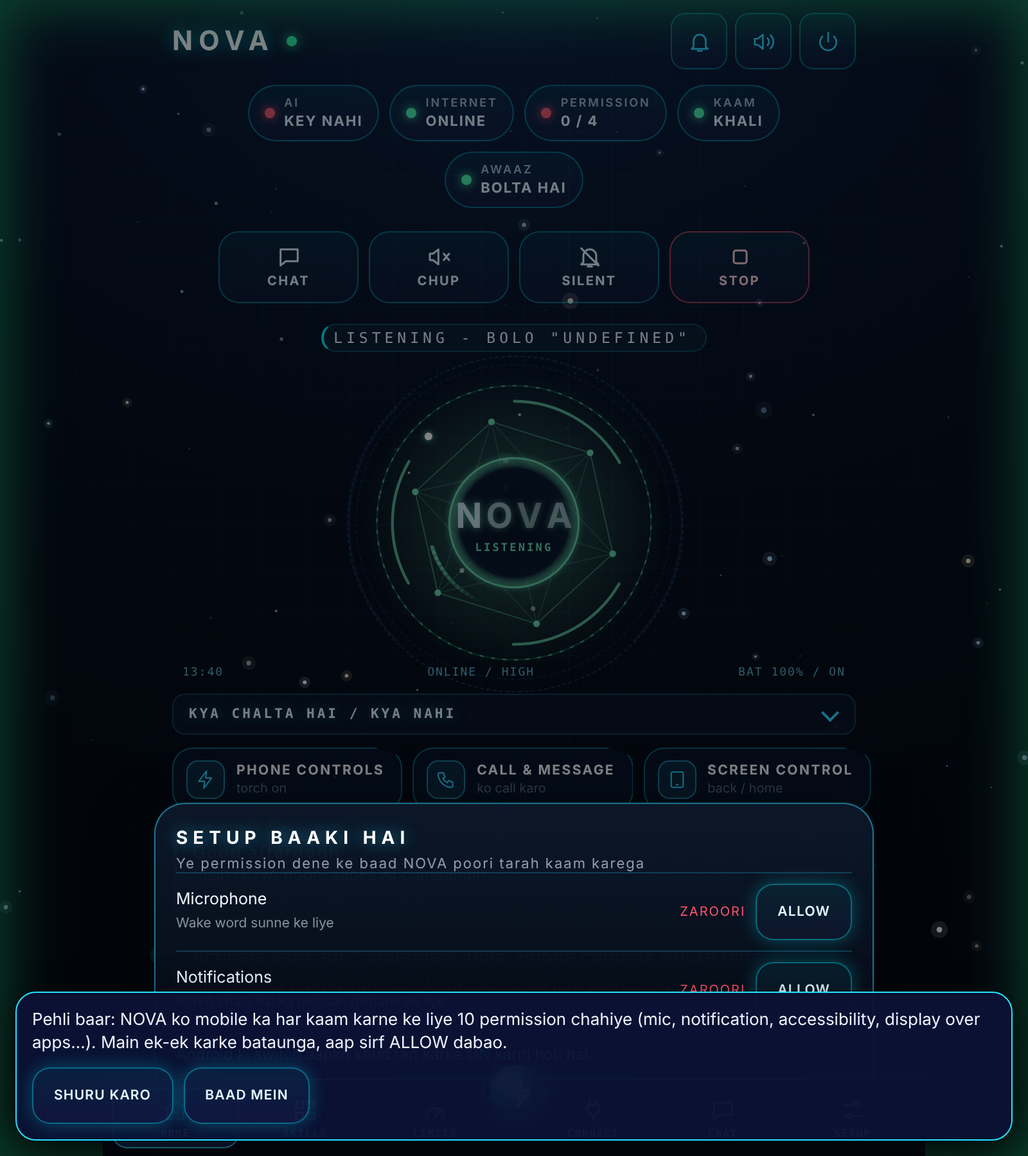
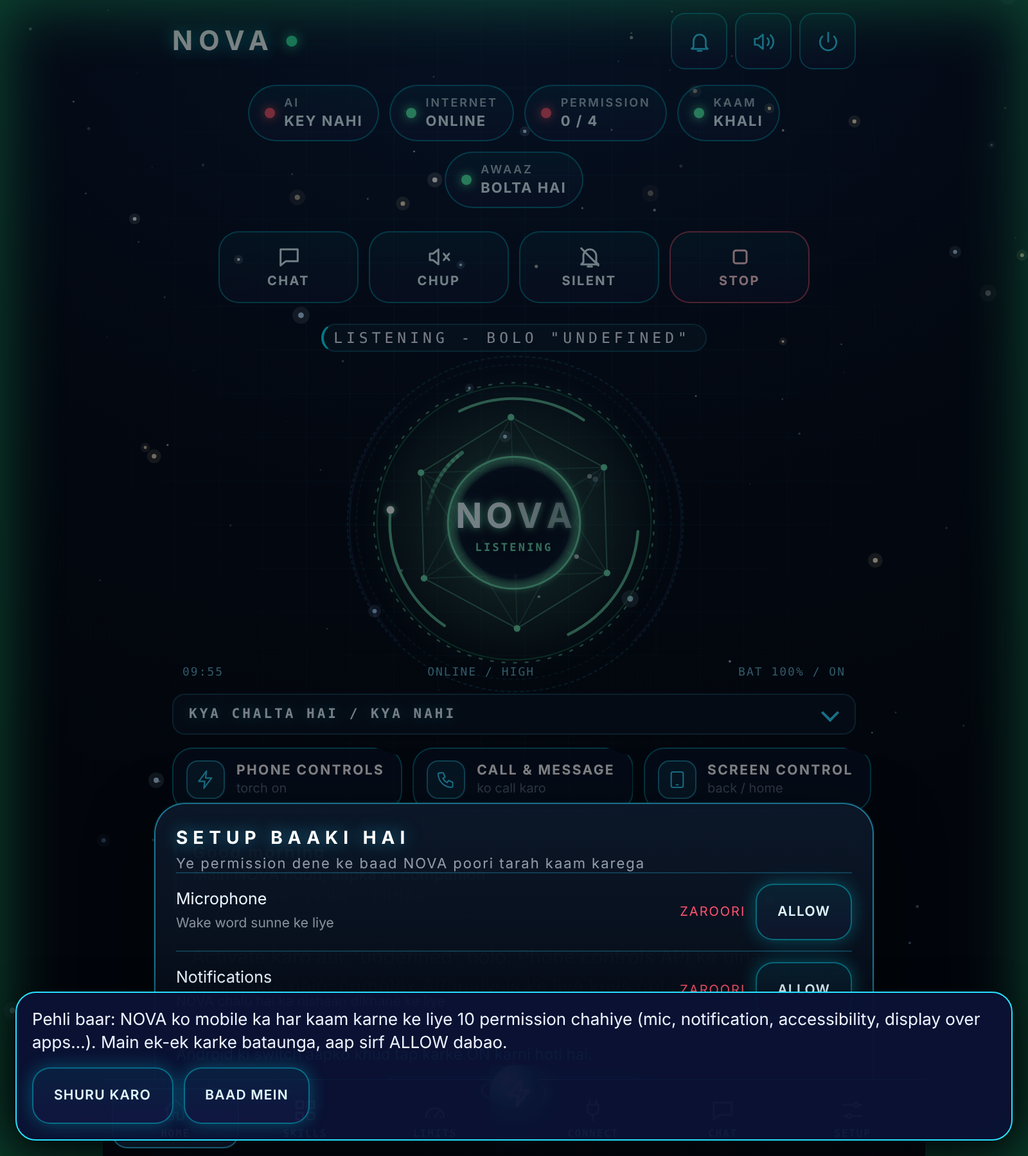
v7.113: SMOOTH default, no per-frame wakeups, horn false-wake guard

diff --git a/app/src/main/assets/ui.html b/app/src/main/assets/ui.html
@@ -6,14 +6,19 @@ if(t!=="low"&&t!=="mid"&&t!=="high"){var q=/[?&]tier=(low|mid|high)/.exec(locati
 window.__tier=t;try{document.documentElement.setAttribute("data-tier",t)}catch(e){}window.__dprCap=t==="high"?3:(t==="mid"?2:1.5);
 if(t==="low"){window.__forceLow=true;document.documentElement.classList.add("lowfx")}
 /* v7.4 Quality: Auto (default, tier based) / Sharp (more pixels, capped) / Smooth (light effects, fewer pixels, no hang) */
-try{var q=localStorage.getItem("nova_q")||"auto";window.__quality=q;if(q==="smooth"){window.__dprCap=2;window.__forceLow=true;document.documentElement.classList.add("lowfx");document.documentElement.classList.add("qsmooth")}else if(q==="sharp"&&t==="high"){window.__dprCap=Math.min(3,Math.max(window.__dprCap||2,2))}}catch(e){}})();</script>
+try{var q=localStorage.getItem("nova_q");if(!localStorage.getItem("nova_q_mig1")){localStorage.setItem("nova_q_mig1","1");if(!q||q==="auto"){q="smooth";localStorage.setItem("nova_q","smooth")}}q=q||"smooth";window.__quality=q;if(q==="smooth"){window.__dprCap=2;window.__forceLow=true;document.documentElement.classList.add("lowfx");document.documentElement.classList.add("qsmooth")}else if(q==="sharp"&&t==="high"){window.__dprCap=Math.min(3,Math.max(window.__dprCap||2,2))}}catch(e){}})();</script>
 <script id="qsmooth-init-v784">/* v7.84: SMOOTH = still theme. The live theme (3D orb, starfield, NOVA core, HUD rings) is drawn once per state change instead of 30 times a second, so the phone stays free for the real work. Helpers only: classes and one throttle gate. */
 (function(){var h=document.documentElement,W=window,G={};
 W.__isSmooth=function(){return h.classList.contains("qsmooth")};
 /* true = draw this frame. In SMOOTH a loop keyed k draws at most about 3 times a second (state colour still follows within 0.3 s). Other modes: always true. */
+var rAF=W.requestAnimationFrame.bind(W),cAF=W.cancelAnimationFrame.bind(W),NID=1e9,TM={};
+/* v7.113: in SMOOTH a looping animation re-arms with a timer (about 3 per second, 1 per 1.5 s while hidden) instead of requestAnimationFrame, so the page stops waking up 60 times a second. Other modes: plain requestAnimationFrame. */
+W.__qsRaf=function(f){if(!h.classList.contains("qsmooth"))return rAF(f);var id=++NID;TM[id]=setTimeout(function(){delete TM[id];f(performance.now())},document.hidden?1500:333);return id};
+W.cancelAnimationFrame=function(id){if(id>=1e9){clearTimeout(TM[id]);delete TM[id];return}return cAF(id)};
 W.__qsGate=function(k,now){if(!h.classList.contains("qsmooth"))return true;var l=G[k]||0;if(now-l<300)return false;G[k]=now;return true};
 })();</script>
-<script>/* v6.38: repeating UI timers pause while the page is hidden */(function(){var si=window.setInterval;window.setInterval=function(f,t){var a=[].slice.call(arguments,2);if(typeof f!=="function")return si(f,t);if(t>=2000&&window.__tier!=="high")t=Math.round(t*1.6);   /* v7.90: status polls (2-5 s) run 60% less often on LOW / MID phones */
+<script>/* v6.38: repeating UI timers pause while the page is hidden */(function(){var si=window.setInterval;window.setInterval=function(f,t){var a=[].slice.call(arguments,2);if(typeof f!=="function")return si(f,t);if(document.documentElement.classList.contains("qsmooth")){if(t<600)t=600;else if(t>=1000&&t<5000)t=Math.round(t*1.5)}   /* v7.113: SMOOTH = fewer wake-ups */
+if(t>=2000&&window.__tier!=="high")t=Math.round(t*1.6);   /* v7.90: status polls (2-5 s) run 60% less often on LOW / MID phones */
 return si(function(){if(document.hidden)return;f.apply(null,a)},t)}})();</script>
 <style>
 :root{--c1:#00f0ff;--c2:#2a6bff;--bg:#05060f}
@@ -343,6 +348,18 @@ html.lowfx #sk_l .vc{content-visibility:auto;contain-intrinsic-size:auto 130px}
 <small id="wb_lgs"></small>
 <label for="wb_city">MERA SHEHAR</label>
 <input id="wb_city" type="text" maxlength="80" placeholder="jaise Delhi (mausam ke liye)" autocomplete="off">
+<label for="wb_sosp">PAPA KA NUMBER (battery 5% par WhatsApp)</label>
+<input id="wb_sosp" type="tel" maxlength="16" placeholder="jaise 9876543210" autocomplete="off">
+<label for="wb_sosm">MUMMY KA NUMBER (battery 5% par WhatsApp)</label>
+<input id="wb_sosm" type="tel" maxlength="16" placeholder="jaise 9876543210" autocomplete="off">
+<small id="wb_soss">Yahan number daalo, to NOVA contact dhoondhne ki jagah seedha isi number par bhejega.</small>
+<script>(function(){
+var P=document.getElementById('wb_sosp'),M=document.getElementById('wb_sosm'),S=document.getElementById('wb_soss');
+function save(el,who){return function(){try{var r=Android.setSosNumber(who,el.value);el.value=r||'';if(S)S.textContent=r?(who==='papa'?'Papa':'Mummy')+' ka number save ho gaya.':'Number sahi nahi laga (7 se 15 ank). Dobara daalo.'}catch(e){}}}
+function load(){try{var a=Android.getSosNumber('papa'),b=Android.getSosNumber('mummy');if(P&&a&&document.activeElement!==P)P.value=a;if(M&&b&&document.activeElement!==M)M.value=b}catch(e){}}
+if(P)P.onchange=save(P,'papa');if(M)M.onchange=save(M,'mummy');
+load();setTimeout(load,1500);setTimeout(load,4000);
+})();</script>
 <label for="wb_wait">AAWAAZ KE BAAD KITNA RUKUN: <b id="wb_waitv"></b> sec</label>
 <input id="wb_wait" type="range" min="2" max="10" step="1" value="5">
 <small>Aap bolna band karte ho to NOVA itne second ruk kar sunta hai, phir command chalata hai. Kam = tez, zyada = lambi baat ke liye.</small>
@@ -390,7 +407,7 @@ html.lowfx #sk_l .vc{content-visibility:auto;contain-intrinsic-size:auto 130px}
 
 <label class="chk" style="display:none"><input type="checkbox" id="s_boot"> Phone restart ke baad NOVA wapas chalu karne ka notification do</label>
 <label class="chk"><input type="checkbox" id="s_screen"> SCREEN MONITORING (sirf local, default OFF; Accessibility permission chahiye): screen par error/warning aane par NOVA bol dega</label>
-<label class="chk" style="display:block">GRAPHICS QUALITY <select id="s_quality"><option value="auto">AUTO (phone ke hisab se)</option><option value="sharp">SHARP (zyada saaf)</option><option value="smooth">SMOOTH (bina atke, halke effects)</option></select></label>
+<label class="chk" style="display:block">GRAPHICS QUALITY <select id="s_quality"><option value="auto">AUTO (phone ke hisab se)</option><option value="sharp">SHARP (zyada saaf)</option><option value="smooth">SMOOTH (bina atke, halke effects) - default</option></select></label>
 <small id="s_qnote">Quality badalne ke baad NOVA app band karke dobara kholo. AUTO phone ke hisab se khud chunta hai; atak raha ho to SMOOTH chuno.</small>
 <small>Monitoring phone ke andar hi chalti hai (Accessibility text, koi image nahi) aur kuch bhi cloud par nahi bhejti. Iske liye Accessibility ON honi chahiye. Screen ka analysis alag hai: sirf jab aap bolo "analyze screen"; key hone par hi password-free screen text AI ko jaata hai.</small>
 
@@ -1394,7 +1411,7 @@ function frame(now){
   ctx.globalAlpha=1;
 }
 var raf=0;
-function loop(now){if(window.__orb3d!==true&&!window.__cover&&(!window.__qsGate||window.__qsGate('orb2d',now)))frame(now);raf=requestAnimationFrame(loop)}   /* v6.18b: the old 2D orb is hidden while the 3D orb runs, so do not redraw it (saves one shadowBlur canvas per frame) */
+function loop(now){if(window.__orb3d!==true&&!window.__cover&&(!window.__qsGate||window.__qsGate('orb2d',now)))frame(now);raf=__qsRaf(loop)}   /* v6.18b: the old 2D orb is hidden while the 3D orb runs, so do not redraw it (saves one shadowBlur canvas per frame) */
 function start(){if(!raf)raf=requestAnimationFrame(loop)}
 function stop(){if(raf){cancelAnimationFrame(raf);raf=0}}
 document.addEventListener('visibilitychange',function(){document.hidden?stop():start()});
@@ -1648,7 +1665,7 @@ function gframe(now){var cls=$('app').className||'',on=/on|listen|think/.test(cl
  if(ls)for(var r2=0;r2<3;r2++){var ph2=((now/900)+r2/3)%1;g.strokeStyle='rgba('+col+','+(1-ph2)*.5+')';g.lineWidth=1.5;g.beginPath();g.arc(0,0,R+8+ph2*42,0,6.2832);g.stroke()}
  if(th){g.save();g.beginPath();g.arc(0,0,R,0,6.2832);g.clip();g.fillStyle='rgba('+col+',.55)';g.fillRect(-R,-R+((now/5)%(2*R)),2*R,2);g.restore()}
  for(var k=0;k<28;k++){var h=ls?6+24*Math.abs(Math.sin(now/130+k*.6)*Math.sin(now/310+k*.25)):on?2+3*Math.pow(Math.sin(now/500+k*.4),2):1.5;g.fillStyle='rgba('+col+','+(.35+.55*al)+')';g.fillRect(-111+k*8,106-h/2,3,h)}}
-var _lg=0;function gloop(n){requestAnimationFrame(gloop);if(n-_lg<33)return;if(window.__qsGate&&!window.__qsGate('gl2d',n))return;_lg=n;if(!window.__orb3d&&!window.__cover&&B.classList.contains('ready')&&!document.hidden)gframe(n)}requestAnimationFrame(gloop);
+var _lg=0;function gloop(n){__qsRaf(gloop);if(n-_lg<33)return;if(window.__qsGate&&!window.__qsGate('gl2d',n))return;_lg=n;if(!window.__orb3d&&!window.__cover&&B.classList.contains('ready')&&!document.hidden)gframe(n)}requestAnimationFrame(gloop);
 gl.onclick=function(){$('btn').click()};
 var greeted=false;
 function greetOnce(){if(greeted)return;greeted=true;var h=new Date().getHours(),w=h<12?'Good morning':h<17?'Good afternoon':h<21?'Good evening':'Good night',d=document.createElement('div');d.className='greet';d.innerHTML='<b>'+w+'</b><span></span><i>Ready for your command</i>';var lg=$('log');lg.insertBefore(d,lg.firstChild);var tx='Main NOVA hoon, aapka AI companion',k=0,sp=d.querySelector('span');(function ty(){sp.textContent=tx.slice(0,k++);if(k<=tx.length)setTimeout(ty,40)})()}
@@ -1814,7 +1831,7 @@ window.novaBack=function(){if(hl.classList.contains('on')){closeHist();return 'h
 setTimeout(function(){try{var i=g('intro');if(i&&i.classList.contains('on')){i.classList.remove('on');i.style.opacity=''}document.body.classList.add('ready')}catch(e){}},9000);
 })();
 /* v7.4 quality select */
-(function(){var s=document.getElementById('s_quality');if(!s)return;try{s.value=localStorage.getItem('nova_q')||'auto'}catch(e){}
+(function(){var s=document.getElementById('s_quality');if(!s)return;try{s.value=localStorage.getItem('nova_q')||'smooth'}catch(e){}
 s.addEventListener('change',function(){try{localStorage.setItem('nova_q',s.value)}catch(e){}var n=document.getElementById('s_qnote');if(n)n.textContent='Quality '+s.value.toUpperCase()+' save ho gayi. NOVA app band karke dobara kholo.'})})();
 </script><script id="smooth-fx">
 (function(){
@@ -1828,7 +1845,7 @@ try{if(!LOW){LOW=true;document.documentElement.classList.add('lowfx')}}catch(e){
   if(d&&d.set&&d.get)Object.defineProperty(c,'shadowBlur',{configurable:true,get:function(){return d.get.call(c)},set:function(v){d.set.call(c,LOW?0:v)}});
 }catch(e){}});
 var last=0,ema=16.7,bad=0,good=0,H=document.documentElement;
-function tick(t){requestAnimationFrame(tick);
+function tick(t){__qsRaf(tick);
   if(document.hidden){last=0;return}
   if(last){var dt=t-last;if(dt<250)ema=ema*.92+dt*.08}
   last=t;
@@ -2786,7 +2803,7 @@ function draw(now){
   if(!first){first=true;cv.style.background='none'}
 }
 function loop(now){
-  requestAnimationFrame(loop);
+  __qsRaf(loop);
   if(lost||document.hidden||window.__cover||!document.body.classList.contains('ready')){last=0;return}   /* v6.50: nothing is drawn while a full-screen panel covers the orb */
   if(window.__orb3d!==true){window.__orb3d=true;old.style.display='none';cv.style.display=''}
   var cls=app.className||'';
@@ -3800,7 +3817,7 @@ if(!low&&bg.getContext){
   function size(){W=bg.width=Math.max(1,Math.floor(innerWidth/2));H=bg.height=Math.max(1,Math.floor(innerHeight/2))}
   size();addEventListener('resize',size);
   for(var i=0;i<N;i++)P.push({x:Math.random()*W,y:Math.random()*H,vx:(Math.random()-.5)*.4,vy:(Math.random()-.5)*.4});
-  (function loop(t){requestAnimationFrame(loop);if(d.hidden||h.classList.contains('lowfx')||t-last<33)return;last=t;
+  (function loop(t){__qsRaf(loop);if(d.hidden||h.classList.contains('lowfx')||t-last<33)return;last=t;
     cx.clearRect(0,0,W,H);cx.fillStyle='rgba(120,225,255,.8)';cx.strokeStyle='rgba(60,170,255,.22)';
     for(var i=0;i<N;i++){var p=P[i];p.x+=p.vx;p.y+=p.vy;if(p.x<0||p.x>W)p.vx=-p.vx;if(p.y<0||p.y>H)p.vy=-p.vy;
       cx.fillRect(p.x,p.y,2,2);
@@ -4137,7 +4154,7 @@ try{[c,sc].forEach(function(z){z.addEventListener('contextlost',function(e){try{
 window.addEventListener('resize',function(){if(Math.abs(window.innerWidth-SW)>40||Math.abs(window.innerHeight-SH)>160)build()});window.addEventListener('orientationchange',function(){setTimeout(build,250)});
 build();nextShoot=performance.now()+3000;
 var last=0;
-function loop(now){requestAnimationFrame(loop);
+function loop(now){__qsRaf(loop);
   if(d.hidden||window.__cover||!d.body.classList.contains('ready')){last=0;return}
   var lo=low();
   RM=RM0||(window.__isSmooth&&window.__isSmooth());
@@ -4211,12 +4228,12 @@ function step(dt,t){
   }else good=0
 }
 function tick(t){
-  raf=0;if(d.hidden||halted)return;
+  raf=0;if(d.hidden||halted||(W.__isSmooth&&W.__isSmooth()))return;   /* v7.113: SMOOTH is a still theme, nothing to measure */
   raf=requestAnimationFrame(tick);
   if(last)step(t-last,t);
   last=t
 }
-function begin(){if(raf||halted||d.hidden)return;last=0;ema=16.7;bad=0;good=0;quiet=(W.performance?performance.now():0)+3000;raf=requestAnimationFrame(tick)}
+function begin(){if(raf||halted||d.hidden||(W.__isSmooth&&W.__isSmooth()))return;last=0;ema=16.7;bad=0;good=0;quiet=(W.performance?performance.now():0)+3000;raf=requestAnimationFrame(tick)}
 function stop(){if(raf){cancelAnimationFrame(raf);raf=0}last=0}
 d.addEventListener("visibilitychange",function(){if(d.hidden)stop();else begin()});   /* nothing is measured, and nothing is requested, while the page is hidden */
 try{if(W.PerformanceObserver){var po=new PerformanceObserver(function(l){var es=l.getEntries();var t=W.performance?performance.now():0;
@@ -4254,7 +4271,7 @@ html.qsmooth *{scroll-behavior:auto!important}
 /* v7.84: GRAPHICS QUALITY applies at once. Choosing SMOOTH stops the live theme immediately (no app restart). Leaving SMOOTH removes the still mode right away; only the 3D orb pixel size and the effects level climb back after the next app start. Uses the same store as before (localStorage nova_q). */
 (function(){
 var d=document,h=d.documentElement,W=window;
-function q(){var v="auto";try{v=localStorage.getItem("nova_q")||"auto"}catch(e){}return v}
+function q(){var v="smooth";try{v=localStorage.getItem("nova_q")||"smooth"}catch(e){}return v}
 function note(t){var a=d.getElementById("s_qnote"),b=d.getElementById("p17_qn");setTimeout(function(){if(a)a.textContent=t;if(b)b.textContent=t},40)}
 function apply(v){
   W.__quality=v;
@@ -4421,7 +4438,7 @@ window.addEventListener('error',function(e){try{L('js_error',(e&&e.message?e.mes
    every JS function Kotlin calls exists, the key elements and the new scripts exist, and answers with Android.verifyPage(json). Read-only: it clicks nothing and reads no typed text. */
 (function(){try{
 var d=document;
-var BRIDGE=["getBrainChoice", "startBrainInstall", "cancelBrainInstall", "getLearnedSummary", "clearJobLearning", "actionUnseen", "addSchedule", "analysisCancel", "analysisResultText", "analysisStart", "analysisStatus", "answerAsk", "applySelfImprove", "brainClear", "brainEngineReady", "brainStats", "cancelSchedule", "chatPhotoAsk", "checkUpdates", "clearActionLog", "clearErrors", "clearGithubToken", "clearGroqKey", "clearImgKey", "clearKey", "clearLearned", "clearMemory", "clearOpenRouterKey", "clearPhoto", "clearPorcupine", "clearSiteMedia", "clearZaiKey", "clearZaiKeyN", "connectorBegin", "connectorClientId", "connectorClip", "connectorDeviceCancel", "connectorDeviceLogin", "connectorDisconnect", "connectorPaste", "connectorRun", "connectorSetClientId", "connectorSetPerm", "connectorTest", "connectorUseClip", "contextInfo", "copyText", "currentChat", "deleteAllChats", "deleteChat", "deleteLearned", "deleteRoutine", "deleteSent", "detectIntent", "editPhoto", "editReport", "editedToSite", "exportChat", "frameExtractCancel", "frameExtractStart", "frameExtractStatus", "frameExtractThumb", "getActionLog", "getAiOrder", "getAlerts", "getAutoDeleteDays", "getAutoLearn", "getAutoModels", "getAutoReply", "getBrowserStatus", "getChatAi", "getChatSpeak", "getConnectors", "getConvo", "getErrors", "getFeatureStatus", "getFreeChain", "getFreeImg", "getFreeKeyless", "getHomeCity", "getLearned", "getLocalFirst", "getLockGuard", "getMemoryCount", "getMemoryInChain", "getMemoryJson", "getMemoryText", "getNoiseCancel", "getOwnerName", "getPersona", "getSafeMode", "getStopPowersOff", "getSchedules", "getSelfImprove", "getSelfImproveCfg", "getSettings", "getSilentMode", "getSmartReply", "getStatus", "getTier", "getUpdates", "getWaitSec", "getWebBrowsers", "hasGithubToken", "hasGroqKey", "hasImgKey", "hasOpenRouterKey", "hasZaiKey", "hasZaiKeyN", "installUpdate", "keepLearned", "listChats", "lockGuardStatus", "makeImage", "markActionsSeen", "mediaIntakeAttach", "mediaIntakeCancel", "mediaIntakeClear", "mediaIntakeList", "mediaIntakeOpen", "mediaIntakeRemove", "mediaIntakeThumb", "mediaPick", "memoryAdd", "memoryDelete", "memoryEdit", "memoryExport", "memoryImport", "newChat", "noiseCancelStatus", "offerOfflineBrain", "openAccessibility", "openAppInfo", "openAssistantSettings", "openBatterySettings", "openChat", "openDndAccess", "openInstallSettings", "openNotificationAccess", "openOverlaySettings", "openPowerGuide", "openPublished", "openTtsSettings", "openWriteSettings", "pendingAsk", "photoToSite", "pickPhoto", "pickPorcupineModel", "pickSiteMedia", "pinChat", "porcupineStatus", "publishLastSite", "recStart", "recStatus", "recStop", "rejectSelfImprove", "renameChat", "requestBasics", "requestContacts", "rerunSetup", "resetApiUsage", "revertSelfImprove", "rollbackUpdate", "runSelfImprove", "running", "saveGithubToken", "saveGroqKey", "saveImgKey", "saveKeys", "saveOpenRouterKey", "savePorcupineKey", "saveRoutine", "saveSettings", "saveZaiKey", "saveZaiKeyN", "searchChats", "selfTest", "selfTestFree", "selfTestImage", "sendText", "setAlerts", "setApiLimit", "setAutoDeleteDays", "setAutoLearn", "setAutoModels", "setAutoReply", "setChatAi", "setChatSpeak", "setConvo", "setFeedUrl", "setFreeChain", "setFreeImg", "setFreeKeyless", "setHomeCity", "setLocalFirst", "setLockGuard", "setMemoryInChain", "setNoiseCancel", "setOwnerName", "setPersona", "exitSafeMode", "setStopPowersOff", "setSchedulePrio", "setSelfImproveCfg", "setSilentMode", "setSmartReply", "setWaitSec", "setWebBrowsers", "shareText", "siteMediaCount", "skipUpdate", "speakMsg", "stopSpeak", "systemVoice", "teachAdd", "teachDelete", "testBrowser", "testVoice", "toggle", "uiLog", "verifyNow", "verifyPage", "vibrate", "videoStart", "wakeNow", "tradeAnalyse", "tradeCard", "tradeOpenMt5", "tradePractice", "tradeResetPractice", "tradeSendDemo", "tradeSendReal", "tradeSetBalance", "tradeSetRisk", "tradeSetSymbols", "tradeSettle", "tradeSetFilters"];
+var BRIDGE=["getSosNumber", "setSosNumber", "getBrainChoice", "startBrainInstall", "cancelBrainInstall", "getLearnedSummary", "clearJobLearning", "actionUnseen", "addSchedule", "analysisCancel", "analysisResultText", "analysisStart", "analysisStatus", "answerAsk", "applySelfImprove", "brainClear", "brainEngineReady", "brainStats", "cancelSchedule", "chatPhotoAsk", "checkUpdates", "clearActionLog", "clearErrors", "clearGithubToken", "clearGroqKey", "clearImgKey", "clearKey", "clearLearned", "clearMemory", "clearOpenRouterKey", "clearPhoto", "clearPorcupine", "clearSiteMedia", "clearZaiKey", "clearZaiKeyN", "connectorBegin", "connectorClientId", "connectorClip", "connectorDeviceCancel", "connectorDeviceLogin", "connectorDisconnect", "connectorPaste", "connectorRun", "connectorSetClientId", "connectorSetPerm", "connectorTest", "connectorUseClip", "contextInfo", "copyText", "currentChat", "deleteAllChats", "deleteChat", "deleteLearned", "deleteRoutine", "deleteSent", "detectIntent", "editPhoto", "editReport", "editedToSite", "exportChat", "frameExtractCancel", "frameExtractStart", "frameExtractStatus", "frameExtractThumb", "getActionLog", "getAiOrder", "getAlerts", "getAutoDeleteDays", "getAutoLearn", "getAutoModels", "getAutoReply", "getBrowserStatus", "getChatAi", "getChatSpeak", "getConnectors", "getConvo", "getErrors", "getFeatureStatus", "getFreeChain", "getFreeImg", "getFreeKeyless", "getHomeCity", "getLearned", "getLocalFirst", "getLockGuard", "getMemoryCount", "getMemoryInChain", "getMemoryJson", "getMemoryText", "getNoiseCancel", "getOwnerName", "getPersona", "getSafeMode", "getStopPowersOff", "getSchedules", "getSelfImprove", "getSelfImproveCfg", "getSettings", "getSilentMode", "getSmartReply", "getStatus", "getTier", "getUpdates", "getWaitSec", "getWebBrowsers", "hasGithubToken", "hasGroqKey", "hasImgKey", "hasOpenRouterKey", "hasZaiKey", "hasZaiKeyN", "installUpdate", "keepLearned", "listChats", "lockGuardStatus", "makeImage", "markActionsSeen", "mediaIntakeAttach", "mediaIntakeCancel", "mediaIntakeClear", "mediaIntakeList", "mediaIntakeOpen", "mediaIntakeRemove", "mediaIntakeThumb", "mediaPick", "memoryAdd", "memoryDelete", "memoryEdit", "memoryExport", "memoryImport", "newChat", "noiseCancelStatus", "offerOfflineBrain", "openAccessibility", "openAppInfo", "openAssistantSettings", "openBatterySettings", "openChat", "openDndAccess", "openInstallSettings", "openNotificationAccess", "openOverlaySettings", "openPowerGuide", "openPublished", "openTtsSettings", "openWriteSettings", "pendingAsk", "photoToSite", "pickPhoto", "pickPorcupineModel", "pickSiteMedia", "pinChat", "porcupineStatus", "publishLastSite", "recStart", "recStatus", "recStop", "rejectSelfImprove", "renameChat", "requestBasics", "requestContacts", "rerunSetup", "resetApiUsage", "revertSelfImprove", "rollbackUpdate", "runSelfImprove", "running", "saveGithubToken", "saveGroqKey", "saveImgKey", "saveKeys", "saveOpenRouterKey", "savePorcupineKey", "saveRoutine", "saveSettings", "saveZaiKey", "saveZaiKeyN", "searchChats", "selfTest", "selfTestFree", "selfTestImage", "sendText", "setAlerts", "setApiLimit", "setAutoDeleteDays", "setAutoLearn", "setAutoModels", "setAutoReply", "setChatAi", "setChatSpeak", "setConvo", "setFeedUrl", "setFreeChain", "setFreeImg", "setFreeKeyless", "setHomeCity", "setLocalFirst", "setLockGuard", "setMemoryInChain", "setNoiseCancel", "setOwnerName", "setPersona", "exitSafeMode", "setStopPowersOff", "setSchedulePrio", "setSelfImproveCfg", "setSilentMode", "setSmartReply", "setWaitSec", "setWebBrowsers", "shareText", "siteMediaCount", "skipUpdate", "speakMsg", "stopSpeak", "systemVoice", "teachAdd", "teachDelete", "testBrowser", "testVoice", "toggle", "uiLog", "verifyNow", "verifyPage", "vibrate", "videoStart", "wakeNow", "tradeAnalyse", "tradeCard", "tradeOpenMt5", "tradePractice", "tradeResetPractice", "tradeSendDemo", "tradeSendReal", "tradeSetBalance", "tradeSetRisk", "tradeSetSymbols", "tradeSettle", "tradeSetFilters"];
 var CB=["onAsk", "onAutoTest", "onChatExport", "onConn", "onConnRun", "onFeatureVerify", "onFlow", "onImage", "onImgCancel", "onLearn", "onMediaIntake", "onMemBackup", "onNova", "onPhoto", "onPhotoEdited", "onPhotoErr", "onPorcupineFile", "onPublish", "onRecordingsChanged", "onSelfImprove", "onSelfTest", "onSelfTestDone", "onSite", "onSiteMedia", "onSystemVoice", "onTeachBackup", "onChatPhotoGo", "onChatPhotoNo", "onTradeAnalysis", "onTradeSent", "onTradeSettled"];
 var IDS=['clog','c_in','c_send','c_thw','c_thumb','c_auto','p4_core','p4_stars','btn','autoT','c_imode','chatb','st','p6_board','p6_dock'];
 var SCR=['p1_auto','p2_auto','p3_fx','p4_fx','p5_log','p6_verify','p6_home','p7_motion','pt8_chat','pt9_persona','pt10_wire','pt11_media','pt12_frames','pt13_analyse','pt13d_chat','pt14_laser','pt17_switches','pt7_brain_learned','pt18_safe'];
@@ -4821,7 +4838,7 @@ function $(id){return d.getElementById(id)}
 function mark(box,val){var bs=box.querySelectorAll('button');for(var i=0;i<bs.length;i++)bs[i].setAttribute('aria-pressed',String(bs[i].getAttribute('data-v')===String(val)))}
 function wire(box,fn){box.addEventListener('click',function(e){var t=e.target;if(!t||t.tagName!=='BUTTON')return;fn(t.getAttribute('data-v'))})}
 /* QUALITY */
-function getQ(){var q='auto';try{q=localStorage.getItem('nova_q')||'auto'}catch(e){}return q}
+function getQ(){var q='smooth';try{q=localStorage.getItem('nova_q')||'smooth'}catch(e){}return q}
 function paintQ(){var q=getQ();mark($('p17_q'),q);var o=$('s_quality');if(o)o.value=q;
  $('p17_qn').textContent=q==='sharp'?'SHARP: zyada saaf, thoda bhaari.':q==='smooth'?'SMOOTH: halke effects, bina atke (atak raha ho to ye chuno).':'AUTO: phone ke hisab se khud chunta hai.'}
 wire($('p17_q'),function(v){try{localStorage.setItem('nova_q',v)}catch(e){}paintQ();$('p17_qn').textContent+=' Naya quality NOVA app band karke dobara kholne par lagega.'});
@@ -5387,7 +5404,7 @@ function size(){W=cv.width=Math.max(1,Math.floor(root.clientWidth/2));H=cv.heigh
 function rain(t){raf=null;if(!on||low()||!ctx)return;
   if(t-lastPaint>60){lastPaint=t;ctx.fillStyle='rgba(0,10,4,.18)';ctx.fillRect(0,0,W,H);ctx.fillStyle='#5dff9a';ctx.font='10px monospace';
     for(var i=0;i<cols.length;i++){ctx.fillText(CH.charAt((Math.random()*CH.length)|0),i*10,cols[i]);cols[i]=cols[i]>H&&Math.random()>.96?0:cols[i]+10}}
-  raf=requestAnimationFrame(rain)}
+  raf=__qsRaf(rain)}
 function show(){if(on)return;on=true;root.classList.remove('done');root.classList.add('on');
   if(!low()){try{ctx=cv.getContext('2d');size();if(!raf)raf=requestAnimationFrame(rain)}catch(e){ctx=null}}}
 function hide(){on=false;root.classList.remove('on');root.classList.remove('done');if(raf){cancelAnimationFrame(raf);raf=null}}
@@ -5492,7 +5509,7 @@ if(d.readyState==='loading')d.addEventListener('DOMContentLoaded',watch);else wa
    SHARP / SMOOTH chosen by the owner are never touched. Delete this one script to undo. */
 (function(){try{
 var W=window,d=document,N=W.NovaQuality;if(!N)return;
-function q(){try{return localStorage.getItem("nova_q")||"auto"}catch(e){return "auto"}}
+function q(){try{return localStorage.getItem("nova_q")||"smooth"}catch(e){return "smooth"}}
 function on(){try{N.apply("smooth");W.__autoSmooth=true;var a=d.getElementById("s_qnote");if(a)a.textContent="Phone atak raha tha, isliye NOVA ne apne aap SMOOTH laga diya. Wapas SHARP chahiye to GRAPHICS QUALITY me chuno."}catch(e){}}
 if(q()!=="auto")return;
 var mem="";try{mem=localStorage.getItem("nova_autosmooth")||""}catch(e){}

diff --git a/app/src/main/java/com/nova/assistant/NovaService.kt b/app/src/main/java/com/nova/assistant/NovaService.kt
@@ -984,6 +984,7 @@ class NovaService : Service() {
             curWake = wakeWord
             Logic.setWake(wakeWord)          // a custom wake word must never stay inside the command text
             val wk = Recognizer(md, RATE.toFloat(), Logic.wakeGrammar(wakeWord))
+            try { wk.setWords(true) } catch (t: Throwable) { }   // v7.113: word confidence + length so a horn / beep is not taken for "nova"
             wake = wk
             val cmModel = loadCommandModel()   // en-in for commands; wake word and vocabulary stay on model-en
             cmdModel = cmModel
@@ -1230,7 +1231,10 @@ class NovaService : Service() {
                         if (wakeNow && (peak < maxOf(1100.0, noise * 3.5) * WakeAdapt.scale(wakeMiss, wakeMissAt, System.currentTimeMillis()) || System.currentTimeMillis() - lastCaptureEnd < Logic.WAKE_COOLDOWN_MS)) {
                             wk.reset()                 // too faint or too soon: a false wake (TV, room noise, echo of our voice)
                             wakeHits = 0
-                        } else if (wakeNow && Logic.wakeConfirmed(wakeHits, done)) {
+                        } else if (wakeNow && done && !Logic.wakeVerified(txt, wakeWord)) {
+                            wk.reset()                 // v7.113: low confidence or wrong length: a horn, clap or beep, not the spoken word
+                            wakeHits = 0
+                        } else if (wakeNow && done && Logic.wakeConfirmed(wakeHits, done)) {   // v7.113: only a verified FINAL result wakes (a long partial "nova" was how a horn got through)
                             wakeHits = 0
                             wakeCount++
                             followCount = 0
@@ -4269,8 +4273,10 @@ class NovaService : Service() {
         for ((label, aliases) in listOf("Papa" to BatteryRules.PAPA, "Mummy" to BatteryRules.MUMMY)) {
             var contact: CR? = null
             var lastErr = ""
+            val savedNo = ExtCfg.sosNumber(this, label.lowercase())   // v7.111: the number typed in Settings wins over any contact search
+            if (savedNo.isNotBlank()) contact = CR(label, savedNo, null)
             // v7.111: allowRetry=false - a background SOS must never leave a "say the name again" question hanging in the chat
-            for (a in aliases) { val c = resolveContact(a, allowRetry = false); if (c.err == null) { contact = c; break } else lastErr = c.err.msg }
+            if (contact == null) for (a in aliases) { val c = resolveContact(a, allowRetry = false); if (c.err == null) { contact = c; break } else lastErr = c.err.msg }
             if (contact == null) { failed.add(label); why.add(label + ": " + lastErr.take(120)); continue }
             val latch = java.util.concurrent.CountDownLatch(1)
             val ok = AtomicBoolean(false)

diff --git a/app/src/main/java/com/nova/assistant/Logic.kt b/app/src/main/java/com/nova/assistant/Logic.kt
@@ -102,6 +102,32 @@ object Logic {
         return !(t.isNotEmpty() && t[0] == "[unk]") || isFinal
     }
 
+    // v7.113 horn / traffic guard. A grammar-limited recognizer ("nova", "hey nova", "[unk]") is FORCED to pick one of those, so a car horn,
+    // a clap or a TV beep often comes out as "nova". With setWords(true) the final result carries a confidence and the start/end of each word.
+    // A real spoken "nova" is short and confident; a horn mapped to "nova" is low-confidence or far too long. No word data = cannot judge = allowed.
+    const val WAKE_MIN_CONF = 0.75
+    const val WAKE_MIN_WORD_S = 0.18
+    const val WAKE_MAX_WORD_S = 1.10
+
+    private fun numAfter(obj: String, key: String): Double? =
+        Regex("\"" + key + "\"\\s*:\\s*(-?[0-9.]+(?:[eE][-+]?[0-9]+)?)").find(obj)?.groupValues?.get(1)?.toDoubleOrNull()
+
+    fun wakeVerified(json: String, wake: String): Boolean {
+        var judged = false
+        for (m in Regex("\\{[^{}]*\\}").findAll(json)) {
+            val o = m.value
+            val w = Regex("\"word\"\\s*:\\s*\"([^\"]*)\"").find(o)?.groupValues?.get(1) ?: continue
+            if (w != wake) continue
+            val conf = numAfter(o, "conf") ?: continue
+            val st = numAfter(o, "start") ?: continue
+            val en = numAfter(o, "end") ?: continue
+            judged = true
+            val dur = en - st
+            if (conf >= WAKE_MIN_CONF && dur >= WAKE_MIN_WORD_S && dur <= WAKE_MAX_WORD_S) return true
+        }
+        return !judged
+    }
+
     // ---------------------------------------------------------------- strict wake: only a real "nova" wakes NOVA
 
     const val WAKE_CONFIRM_HITS = 4          // v6.55 (was 2): the wake word must stay in this many consecutive recognizer results (~0.4 s); a final result still counts at once

diff --git a/app/src/main/java/com/nova/assistant/ExtCfg.kt b/app/src/main/java/com/nova/assistant/ExtCfg.kt
@@ -248,6 +248,20 @@ object ExtCfg {
         try { ctx.getSharedPreferences(PREF, Context.MODE_PRIVATE).edit().putString("home_city", clean).apply() } catch (e: Exception) { ErrLog.add("ExtCfg", e.toString()) }
         return clean
     }
+    /** v7.111: the owner types Papa's / Mummy's number once in Settings; the battery SOS uses it first (no contact search). who = "papa" or "mummy". */
+    fun sosNumber(ctx: Context, who: String): String = try {
+        ctx.getSharedPreferences(PREF, Context.MODE_PRIVATE).getString("sos_" + who, "") ?: ""
+    } catch (e: Exception) { "" }
+
+    /** Keeps digits and one leading +, 7 to 15 digits; anything else clears the number. Returns the saved value ("" = cleared). */
+    fun setSosNumber(ctx: Context, who: String, raw: String): String {
+        if (who != "papa" && who != "mummy") return ""
+        val t = raw.trim()
+        val digits = t.filter { it.isDigit() }
+        val clean = if (digits.length in 7..15) (if (t.startsWith("+")) "+" else "") + digits else ""
+        try { ctx.getSharedPreferences(PREF, Context.MODE_PRIVATE).edit().putString("sos_" + who, clean).apply() } catch (e: Exception) { ErrLog.add("ExtCfg", e.toString()) }
+        return clean
+    }
     private const val STOP_OFF = "stop_powers_off"   // v7.39 PART 4
 
     /** v7.39 PART 4: does the floating card's STOP button also switch NOVA off? Default NO: STOP only stops talking / the job. PART 17 adds the Settings switch. */

diff --git a/app/src/test/java/com/nova/assistant/HornGuardTest.kt b/app/src/test/java/com/nova/assistant/HornGuardTest.kt
@@ -1,0 +1,25 @@
+package com.nova.assistant
+
+import org.junit.Assert.assertFalse
+import org.junit.Assert.assertTrue
+import org.junit.Test
+
+/** v7.113: a car horn / beep forced into "nova" by the tiny wake grammar must not wake NOVA. */
+class HornGuardTest {
+    private fun res(conf: Double, st: Double, en: Double, w: String = "nova") =
+        """{"result":[{"conf":$conf,"end":$en,"start":$st,"word":"$w"}],"text":"$w"}"""
+
+    @Test fun realNovaPasses() = assertTrue(Logic.wakeVerified(res(0.98, 1.20, 1.62), "nova"))
+    @Test fun lowConfidenceRejected() = assertFalse(Logic.wakeVerified(res(0.41, 1.20, 1.62), "nova"))
+    @Test fun longHornRejected() = assertFalse(Logic.wakeVerified(res(0.95, 0.30, 2.10), "nova"))
+    @Test fun tinyClickRejected() = assertFalse(Logic.wakeVerified(res(0.95, 0.30, 0.38), "nova"))
+    @Test fun heyNovaUsesTheWakeWord() {
+        val j = """{"result":[{"conf":0.9,"end":0.6,"start":0.2,"word":"hey"},{"conf":0.97,"end":1.1,"start":0.7,"word":"nova"}],"text":"hey nova"}"""
+        assertTrue(Logic.wakeVerified(j, "nova"))
+    }
+    @Test fun unkThenWeakNovaRejected() {
+        val j = """{"result":[{"conf":1.0,"end":0.9,"start":0.1,"word":"[unk]"},{"conf":0.5,"end":1.9,"start":0.9,"word":"nova"}],"text":"[unk] nova"}"""
+        assertFalse(Logic.wakeVerified(j, "nova"))
+    }
+    @Test fun noWordDataCannotJudgeSoAllowed() = assertTrue(Logic.wakeVerified("""{"text":"nova"}""", "nova"))
+}

diff --git a/app/src/main/java/com/nova/assistant/ContactMatcher.kt b/app/src/main/java/com/nova/assistant/ContactMatcher.kt
@@ -47,6 +47,8 @@ object ContactMatcher {
         val scored = merged.values.mapNotNull { (id, group) ->
             val name = group.first().displayName
             val nameBasic = basic(name)
+            // v7.111: a name made only of emoji / fancy-font letters becomes "" here, and "" is "contained" in every query -> it matched everybody
+            if (nameBasic.isBlank()) return@mapNotNull null
             val qFold = fold(q)
             val nFold = fold(nameBasic)
             val qt = q.split(" ").filter { it.isNotBlank() }
@@ -58,7 +60,7 @@ object ContactMatcher {
                 qt.isNotEmpty() && qt == nt -> 0.94
                 qt.isNotEmpty() && qt.all { it in nt } -> 0.89
                 q in nameBasic || nameBasic in q -> 0.83
-                qt.any { token -> nt.any { it.startsWith(token) || token.startsWith(it) } } -> 0.78
+                qt.any { token -> nt.any { it.startsWith(token) || (it.length >= 2 && token.startsWith(it)) } } -> 0.78   // v7.111: a one-letter name part ("P", "M") is no match for every word that starts with it
                 else -> {
                     val compactQ = qFold.replace(" ", "")
                     val compactN = nFold.replace(" ", "")

diff --git a/app/src/main/java/com/nova/assistant/MainActivity.kt b/app/src/main/java/com/nova/assistant/MainActivity.kt
@@ -2198,6 +2198,13 @@ class MainActivity : Activity() {
         @JavascriptInterface
         fun setHomeCity(city: String): String = ExtCfg.setHomeCity(this@MainActivity, city.take(80))
 
+        @JavascriptInterface
+        fun getSosNumber(who: String): String = ExtCfg.sosNumber(this@MainActivity, who.take(10))
+
+        /** v7.111: returns the cleaned number that was saved ("" when it was not a valid number). */
+        @JavascriptInterface
+        fun setSosNumber(who: String, number: String): String = ExtCfg.setSosNumber(this@MainActivity, who.take(10), number.take(40))
+
         /** One JSON object: switches, the 5 browsers with REAL call counts / state, savings counters, whether the on-device AI is installed. */
         @JavascriptInterface
         fun getBrowserStatus(): String = try {

diff --git a/tools/test_v7113_smooth_default.py b/tools/test_v7113_smooth_default.py
@@ -1,0 +1,37 @@
+#!/usr/bin/env python3
+"""v7.113: fresh install = SMOOTH; in SMOOTH no requestAnimationFrame wake-ups; AUTO / SHARP still animate. Headless chromium, fake bridge. NOT a phone test."""
+import os, sys
+R = os.path.join(os.path.dirname(os.path.abspath(__file__)), '..'); UI = os.path.join(R, 'app/src/main/assets/ui.html')
+try:
+    from playwright.sync_api import sync_playwright
+except Exception:
+    print('SKIP (no playwright)'); sys.exit(0)
+BR = """(function(){var R={getStatus:'{}',getSettings:'{}',getBrowserStatus:'{}',getConnectors:'[]',listChats:'[]',getTier:'high',getAutoReply:'{}',getSelfImproveCfg:'{}',getWaitSec:5};
+window.Android=new Proxy({},{get:function(t,k){return function(a,b){if(k==='detectIntent')return JSON.stringify({kind:'NONE'});if(k==='running')return true;return R[k]!==undefined?R[k]:''}}})})();
+window.__raf=0;var r=window.requestAnimationFrame;window.requestAnimationFrame=function(f){return r.call(window,function(t){window.__raf++;return f(t)})};"""
+bad = []
+def run(b, pre, name):
+    ctx = b.new_context(viewport={'width': 412, 'height': 800}); pg = ctx.new_page(); errs = []
+    pg.on('pageerror', lambda e: errs.append(str(e)[:120]))
+    if pre: pg.add_init_script(pre)
+    pg.add_init_script(BR); pg.goto('file://' + os.path.abspath(UI))
+    try: pg.wait_for_function('document.body.classList.contains("ready")', timeout=25000)
+    except Exception: bad.append(name + ' never ready')
+    pg.wait_for_timeout(2500); n0 = pg.evaluate('window.__raf'); pg.wait_for_timeout(3000); n1 = pg.evaluate('window.__raf')
+    q = pg.evaluate('localStorage.getItem("nova_q")'); sm = pg.evaluate('document.documentElement.classList.contains("qsmooth")')
+    ctx.close()
+    if errs: bad.append(name + ' js errors: %s' % errs[:2])
+    return (n1 - n0) / 3.0, q, sm
+with sync_playwright() as p:
+    try: b = p.chromium.launch()
+    except Exception: print('SKIP (no chromium)'); sys.exit(0)
+    r, q, sm = run(b, None, 'fresh');                                   print('fresh install: raf/s=%.1f q=%s smooth=%s' % (r, q, sm))
+    if not sm or q != 'smooth': bad.append('fresh install is not SMOOTH')
+    if r > 5: bad.append('SMOOTH still wakes up %.1f rAF/s' % r)
+    r, q, sm = run(b, 'try{localStorage.setItem("nova_q","auto")}catch(e){}', 'old-auto');  print('old stored AUTO migrates once: q=%s smooth=%s' % (q, sm))
+    if not sm: bad.append('stored AUTO was not migrated to SMOOTH')
+    r, q, sm = run(b, 'try{localStorage.setItem("nova_q_mig1","1");localStorage.setItem("nova_q","sharp")}catch(e){}', 'sharp'); print('SHARP: raf/s=%.1f smooth=%s' % (r, sm))
+    if sm: bad.append('SHARP wrongly smooth')
+    if r < 20: bad.append('SHARP does not animate (%.1f rAF/s)' % r)
+    b.close()
+print('FAIL\n - ' + '\n - '.join(bad) if bad else 'PASS'); sys.exit(1 if bad else 0)

diff --git a/tools/test_part4_fx_render.py b/tools/test_part4_fx_render.py
@@ -22,7 +22,7 @@ with sync_playwright() as p:
         return pg.evaluate('(function(i){var c=document.getElementById(i),x=c.getContext("2d"),d=x.getImageData(0,0,c.width,c.height).data,n=0;for(var k=3;k<d.length;k+=16)if(d[k]>8)n++;return n})("%s")' % id)
     for (w, h) in [(320, 640), (360, 700), (412, 800), (800, 900)]:
         ctx = b.new_context(viewport={'width': w, 'height': h}, device_scale_factor=2)
-        pg = ctx.new_page(); pg.add_init_script(BR)
+        pg = ctx.new_page(); pg.add_init_script('try{localStorage.setItem("nova_q_mig1","1");localStorage.setItem("nova_q","auto")}catch(e){}'); pg.add_init_script(BR)
         pg.on('pageerror', lambda e: bad.append('js error: ' + str(e)[:150]))
         pg.goto('file://' + os.path.abspath(UI))
         try: pg.wait_for_function('document.body.classList.contains("ready")', timeout=25000)
@@ -78,7 +78,7 @@ with sync_playwright() as p:
         ctx.close()
     # reduced motion: still draws, stars do not move
     ctx = b.new_context(viewport={'width': 360, 'height': 700}, device_scale_factor=2, reduced_motion='reduce')
-    pg = ctx.new_page(); pg.add_init_script(BR); pg.on('pageerror', lambda e: bad.append('js error: ' + str(e)[:150]))
+    pg = ctx.new_page(); pg.add_init_script('try{localStorage.setItem("nova_q_mig1","1");localStorage.setItem("nova_q","auto")}catch(e){}'); pg.add_init_script(BR); pg.on('pageerror', lambda e: bad.append('js error: ' + str(e)[:150]))
     pg.goto('file://' + os.path.abspath(UI)); pg.wait_for_function('document.body.classList.contains("ready")', timeout=25000)
     pg.evaluate('window.__forceLow=false;document.documentElement.classList.remove("lowfx")'); pg.wait_for_timeout(1200)
     if count(pg, 'p4_core') < 200 or count(pg, 'p4_stars') < 20: bad.append('reduced-motion: canvases empty')

diff --git a/tools/test_native_smooth_contract.py b/tools/test_native_smooth_contract.py
@@ -35,7 +35,7 @@ def runtime():
     FAKE = "window.Android=new Proxy({},{get:function(t,k){return function(){return k==='getTier'?'high':''}}});"
     def page():
         ctx = b.new_context(viewport={'width': 412, 'height': 800}); pg = ctx.new_page(); errs = []
-        pg.on('pageerror', lambda e: errs.append(str(e))); pg.add_init_script(FAKE)
+        pg.on('pageerror', lambda e: errs.append(str(e))); pg.add_init_script('try{localStorage.setItem("nova_q_mig1","1");localStorage.setItem("nova_q","auto")}catch(e){}'); pg.add_init_script(FAKE)
         pg.goto('file://' + os.path.abspath(UI)); pg.wait_for_function("!!(window.NovaPerf&&window.novaNative)", timeout=60000)
         pg.evaluate("NovaPerf._halt()"); return ctx, pg, errs
     def chk(c, m):

diff --git a/tools/test_part6_smooth_contract.py b/tools/test_part6_smooth_contract.py
@@ -23,7 +23,7 @@ var cr=CanvasRenderingContext2D.prototype.clearRect;CanvasRenderingContext2D.pro
 def boot(b, q, w=360, h=700):
     ctx = b.new_context(viewport={'width': w, 'height': h}, device_scale_factor=1)
     pg = ctx.new_page()
-    pg.add_init_script('try{localStorage.setItem("nova_q","%s")}catch(e){}' % q if q else '')
+    pg.add_init_script('try{localStorage.setItem("nova_q_mig1","1");localStorage.setItem("nova_q","%s")}catch(e){}' % (q or 'auto'))   # v7.113: default is SMOOTH now, so 'AUTO' must be chosen explicitly
     pg.add_init_script(BR); pg.add_init_script(COUNT)
     pg.on('pageerror', lambda e: bad.append('%s js error: %s' % (q, str(e)[:150])))
     pg.goto('file://' + os.path.abspath(UI))

diff --git a/tools/test_perf_governor_contract.py b/tools/test_perf_governor_contract.py
@@ -45,7 +45,7 @@ def runtime():
         pg = ctx.new_page(); errs = []
         pg.on('pageerror', lambda e: errs.append(str(e)))
         init = FAKE + "window.__fakeTier=%s;" % json.dumps(tier)
-        if q: init += "try{localStorage.setItem('nova_q',%s)}catch(e){}" % json.dumps(q)
+        init += "try{localStorage.setItem('nova_q_mig1','1');localStorage.setItem('nova_q',%s)}catch(e){}" % json.dumps(q or 'auto')   # v7.113: default is SMOOTH now
         if stored: init += "try{localStorage.setItem('nova_perf',%s)}catch(e){}" % json.dumps(json.dumps(stored))
         pg.add_init_script(init)
         pg.goto(url); pg.wait_for_function("window.NovaPerf", timeout=20000)
